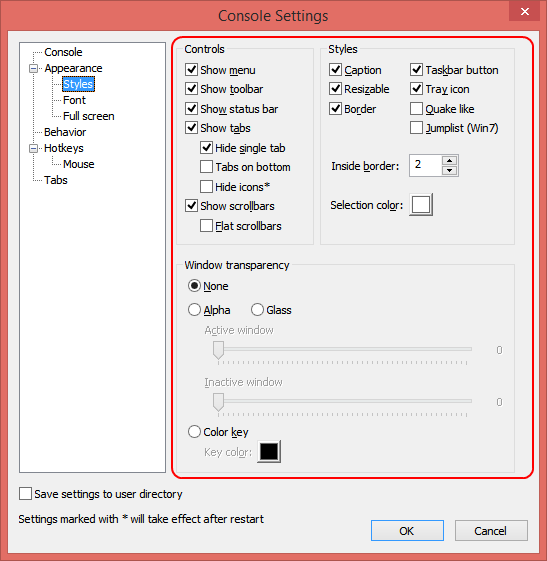
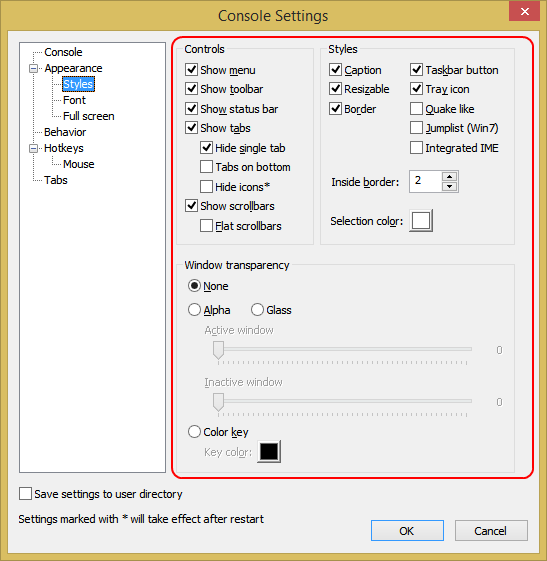
#78 Support of IME

Changed region(s): [[0.0, 0.0, 1.0, 1.0], [0.5905, 0.2424, 0.9013, 0.4242]]

diff --git a/help/html/settings_appearance_styles.html b/help/html/settings_appearance_styles.html
@@ -115,6 +115,12 @@
 	</p>
 	<br />
 
+	<p class="block-row-name">Integrated IME</p>
+	<p class="block-row-description">
+		If checked, the Input Method Editor is integrated to the application (at the cursor position).
+	</p>
+	<br />
+
 	<p class="block-row-name">Inside border</p>
 	<p class="block-row-description">
 		Specifies Console's inside (client area) border.

diff --git a/Console/ConsoleView.cpp b/Console/ConsoleView.cpp
@@ -78,6 +78,7 @@ ConsoleView::ConsoleView(MainFrame& mainFrame, HWND hwndTabView, std::shared_ptr
 , m_boolIsGrouped(false)
 , m_strCmdLineInitialDir(strCmdLineInitialDir)
 , m_strCmdLineInitialCmd(strCmdLineInitialCmd)
+, m_boolImmComposition(false)
 {
 }
 
@@ -356,12 +357,16 @@ LRESULT ConsoleView::OnConsoleFwdMsg(UINT uMsg, WPARAM wParam, LPARAM lParam, BO
 
 			if( uMsg == WM_CHAR || uMsg == WM_SYSCHAR )
 			{
+				if( m_boolImmComposition && !keyEvent.bKeyDown )
+					return 0;
 				keyEvent.wVirtualKeyCode = wLastVirtualKey;
 				keyEvent.uChar.UnicodeChar = static_cast<WCHAR>(wParam);
 			}
 			else
 			{
-			  keyEvent.wVirtualKeyCode = static_cast<WORD>(wParam);
+				if( m_boolImmComposition || wParam == VK_PROCESSKEY )
+					return 0;
+				keyEvent.wVirtualKeyCode = static_cast<WORD>(wParam);
 				keyEvent.uChar.UnicodeChar = 0x0000;
 			}
 
@@ -2493,11 +2498,10 @@ void ConsoleView::BitBltOffscreen(bool bOnlyCursor /*= false*/)
 
 		SharedMemory<ConsoleInfo>& consoleInfo = m_consoleHandler.GetConsoleInfo();
 
-		rectBlit		= m_cursorDBCS->GetCursorRect();
-		rectBlit.left	+= (consoleInfo->csbi.dwCursorPosition.X - consoleInfo->csbi.srWindow.Left) * m_nCharWidth + m_nVInsideBorder;
-		rectBlit.top	+= (consoleInfo->csbi.dwCursorPosition.Y - consoleInfo->csbi.srWindow.Top) * m_nCharHeight + m_nHInsideBorder;
-		rectBlit.right	+= (consoleInfo->csbi.dwCursorPosition.X - consoleInfo->csbi.srWindow.Left) * m_nCharWidth + m_nVInsideBorder;
-		rectBlit.bottom	+= (consoleInfo->csbi.dwCursorPosition.Y - consoleInfo->csbi.srWindow.Top) * m_nCharHeight + m_nHInsideBorder;
+		rectBlit = m_cursorDBCS->GetCursorRect();
+		rectBlit.MoveToXY(
+			(consoleInfo->csbi.dwCursorPosition.X - consoleInfo->csbi.srWindow.Left) * m_nCharWidth  + m_nVInsideBorder,
+			(consoleInfo->csbi.dwCursorPosition.Y - consoleInfo->csbi.srWindow.Top)  * m_nCharHeight + m_nHInsideBorder);
 	}
 	else
 	{
@@ -2859,4 +2863,89 @@ void ConsoleView::RedrawCharOnCursor(CDC& dc)
     &rectCursor,
     &charInfo.Char.UnicodeChar, 1,
     nullptr);
+}
+
+//////////////////////////////////////////////////////////////////////////////
+
+
+//////////////////////////////////////////////////////////////////////////////
+
+LRESULT ConsoleView::OnIMEComposition(UINT /*uMsg*/, WPARAM /*wParam*/, LPARAM /*lParam*/, BOOL& bHandled)
+{
+	// call ::DefWindowProc()
+	bHandled = FALSE;
+
+	if( !g_settingsHandler->GetAppearanceSettings().stylesSettings.bIntegratedIME )
+		return 0;
+
+	HIMC hImc = ::ImmGetContext(m_hWnd);
+
+#if 0
+	WCHAR buf[32] = {0};
+	LONG len = ::ImmGetCompositionString(
+		hImc,
+		GCS_COMPSTR,
+		buf, sizeof(buf));
+
+	TRACE(L"ConsoleView::OnIMEComposition (%d)\n", len);
+	for(LONG i = 0; i < (len / sizeof(WCHAR)); i++)
+		TRACE(L"  %04hx\n", buf[i]);
+#endif
+
+	TEXTMETRIC  textMetric;
+
+	m_dcText.SelectFont(m_fontText);
+	m_dcText.GetTextMetrics(&textMetric);
+
+	SharedMemory<ConsoleInfo>& consoleInfo = m_consoleHandler.GetConsoleInfo();
+	CRect rectCursor = m_cursorDBCS->GetCursorRect();
+	rectCursor.MoveToXY(
+		(consoleInfo->csbi.dwCursorPosition.X - consoleInfo->csbi.srWindow.Left) * m_nCharWidth  + m_nVInsideBorder,
+		(consoleInfo->csbi.dwCursorPosition.Y - consoleInfo->csbi.srWindow.Top)  * m_nCharHeight + m_nHInsideBorder);
+
+	COMPOSITIONFORM cf;
+	cf.dwStyle = CFS_POINT | CFS_FORCE_POSITION;
+	cf.ptCurrentPos.x = rectCursor.left;
+	cf.ptCurrentPos.y = rectCursor.top;
+	cf.rcArea  = rectCursor;
+
+	::ImmSetCompositionWindow(hImc, &cf);
+
+	LOGFONT lf;
+	m_fontText.GetLogFont(lf);
+	::ImmSetCompositionFont(hImc, &lf);
+
+	::ImmReleaseContext(m_hWnd, hImc);
+
+	return 0;
+}
+
+//////////////////////////////////////////////////////////////////////////////
+
+
+//////////////////////////////////////////////////////////////////////////////
+
+LRESULT ConsoleView::OnIMEStartComposition(UINT /*uMsg*/, WPARAM /*wParam*/, LPARAM /*lParam*/, BOOL& bHandled)
+{
+	// call ::DefWindowProc()
+	bHandled = FALSE;
+
+	m_boolImmComposition = true;
+
+	return 0;
+}
+
+//////////////////////////////////////////////////////////////////////////////
+
+
+//////////////////////////////////////////////////////////////////////////////
+
+LRESULT ConsoleView::OnIMEEndComposition(UINT /*uMsg*/, WPARAM /*wParam*/, LPARAM /*lParam*/, BOOL& bHandled)
+{
+	// call ::DefWindowProc()
+	bHandled = FALSE;
+
+	m_boolImmComposition = false;
+
+	return 0;
 }

diff --git a/Console/ConsoleView.h b/Console/ConsoleView.h
@@ -67,6 +67,10 @@ class ConsoleView
 			MESSAGE_HANDLER(WM_INPUTLANGCHANGE, OnInputLangChange)
 			MESSAGE_HANDLER(WM_DROPFILES, OnDropFiles)
 			MESSAGE_HANDLER(UM_UPDATE_CONSOLE_VIEW, OnUpdateConsoleView)
+
+			MESSAGE_HANDLER(WM_IME_COMPOSITION, OnIMEComposition)
+			MESSAGE_HANDLER(WM_IME_STARTCOMPOSITION, OnIMEStartComposition)
+			MESSAGE_HANDLER(WM_IME_ENDCOMPOSITION, OnIMEEndComposition)
 		END_MSG_MAP()
 
 //		Handler prototypes (uncomment arguments if needed):
@@ -93,6 +97,10 @@ class ConsoleView
 		LRESULT OnInputLangChange(UINT uMsg, WPARAM wParam, LPARAM lParam, BOOL& bHandled);
 		LRESULT OnDropFiles(UINT /*uMsg*/, WPARAM wParam, LPARAM /*lParam*/, BOOL& /*bHandled*/);
 		LRESULT OnUpdateConsoleView(UINT /*uMsg*/, WPARAM wParam, LPARAM /*lParam*/, BOOL& /*bHandled*/);
+
+		LRESULT OnIMEComposition(UINT uMsg, WPARAM wParam, LPARAM lParam, BOOL& bHandled);
+		LRESULT OnIMEStartComposition(UINT uMsg, WPARAM wParam, LPARAM lParam, BOOL& bHandled);
+		LRESULT OnIMEEndComposition(UINT uMsg, WPARAM wParam, LPARAM lParam, BOOL& bHandled);
 
 		virtual void RedrawCharOnCursor(CDC& dc);
 
@@ -171,7 +179,6 @@ class ConsoleView
 
 		COORD GetConsoleCoord(const CPoint& clientPoint, bool bStartSelection = false);
 
-
 	private:
 
 		MainFrame& m_mainFrame;
@@ -189,7 +196,8 @@ class ConsoleView
 		bool	m_bUseTextAlphaBlend;
 		bool	m_bConsoleWindowVisible;
 		bool  m_boolIsGrouped;
-
+		bool  m_boolImmComposition;
+		
 		DWORD	m_dwStartupRows;
 		DWORD	m_dwStartupColumns;
 		DWORD m_dwVScrollMax;

diff --git a/Console/SettingsHandler.cpp b/Console/SettingsHandler.cpp
@@ -510,6 +510,7 @@ StylesSettings::StylesSettings()
 , bTrayIcon(false)
 , bQuake(false)
 , bJumplist(false)
+, bIntegratedIME(false)
 , crSelectionColor(RGB(255, 255, 255))
 {
 }
@@ -533,6 +534,7 @@ bool StylesSettings::Load(const CComPtr<IXMLDOMElement>& pSettingsRoot)
 	XmlHelper::GetAttribute(pStylesElement, CComBSTR(L"tray_icon"), bTrayIcon, false);
 	XmlHelper::GetAttribute(pStylesElement, CComBSTR(L"quake_like"), bQuake, false);
 	XmlHelper::GetAttribute(pStylesElement, CComBSTR(L"jumplist"), bJumplist, false);
+	XmlHelper::GetAttribute(pStylesElement, CComBSTR(L"integrated_ime"), bIntegratedIME, false);
 
 	CComPtr<IXMLDOMElement>	pSelColorElement;
 
@@ -562,6 +564,7 @@ bool StylesSettings::Save(const CComPtr<IXMLDOMElement>& pSettingsRoot)
 	XmlHelper::SetAttribute(pStylesElement, CComBSTR(L"tray_icon"), bTrayIcon);
 	XmlHelper::SetAttribute(pStylesElement, CComBSTR(L"quake_like"), bQuake);
 	XmlHelper::SetAttribute(pStylesElement, CComBSTR(L"jumplist"), bJumplist);
+	XmlHelper::SetAttribute(pStylesElement, CComBSTR(L"integrated_ime"), bIntegratedIME);
 
 	CComPtr<IXMLDOMElement>	pSelColorElement;
 
@@ -587,6 +590,7 @@ StylesSettings& StylesSettings::operator=(const StylesSettings& other)
 	bTrayIcon		= other.bTrayIcon;
 	bQuake		= other.bQuake;
 	bJumplist		= other.bJumplist;
+	bIntegratedIME		= other.bIntegratedIME;
 	crSelectionColor= other.crSelectionColor;
 
 	return *this;

diff --git a/Console/resource.h b/Console/resource.h
@@ -276,6 +276,7 @@
 #define IDC_STATIC_EOL_SPACES_1         1207
 #define IDC_STATIC_EOL_SPACES_2         1208
 #define IDC_STATIC_FLASHES              1209
+#define IDC_CHECK_INTEGRATED_IME        1210
 
 #define ID_NEW_TAB_1                    2000
 #define ID_SWITCH_TAB_1                 2100
@@ -339,7 +340,7 @@
 #ifndef APSTUDIO_READONLY_SYMBOLS
 #define _APS_NEXT_RESOURCE_VALUE        219
 #define _APS_NEXT_COMMAND_VALUE         32800
-#define _APS_NEXT_CONTROL_VALUE         1210
+#define _APS_NEXT_CONTROL_VALUE         1211
 #define _APS_NEXT_SYMED_VALUE           101
 #endif
 #endif

diff --git a/Console/DlgSettingsStyles.h b/Console/DlgSettingsStyles.h
@@ -36,6 +36,7 @@ class DlgSettingsStyles
 			DDX_CHECK(IDC_CHECK_STYLE_TRAY, m_stylesSettings.bTrayIcon)
 			DDX_CHECK(IDC_CHECK_STYLE_QUAKE, m_stylesSettings.bQuake)
 			DDX_CHECK(IDC_CHECK_USE_JUMPLIST, m_stylesSettings.bJumplist)
+			DDX_CHECK(IDC_CHECK_INTEGRATED_IME, m_stylesSettings.bIntegratedIME)
 			DDX_UINT(IDC_INSIDE_BORDER, m_stylesSettings.dwInsideBorder)
 			DDX_RADIO(IDC_TRANSPARENCY_TYPE, reinterpret_cast<int&>(m_transparencySettings.transType))
 			DDX_CHECK(IDC_CHECK_HIDE_TAB_ICONS, m_controlsSettings.bHideTabIcons)

diff --git a/Console/TabView.cpp b/Console/TabView.cpp
@@ -54,6 +54,10 @@ BOOL TabView::PreTranslateMessage(MSG* pMsg)
 		// which is sent by SendInput when pasting text
 		if (pMsg->wParam == VK_PACKET) return FALSE;
 
+		// except for wParam == VK_PROCESSKEY,
+		// Input Method Manager
+		if (pMsg->wParam == VK_PROCESSKEY) return FALSE;
+
 		// private API TranslateMessageEx
 		// called with the TM_POSTCHARBREAKS flag
 		// return FALSE if no char is posted

diff --git a/Console/SettingsHandler.h b/Console/SettingsHandler.h
@@ -185,6 +185,7 @@ struct StylesSettings : public SettingsBase
 	bool			bTrayIcon;
 	bool			bQuake;
 	bool			bJumplist;
+	bool			bIntegratedIME;
 	COLORREF		crSelectionColor;
 };
 
